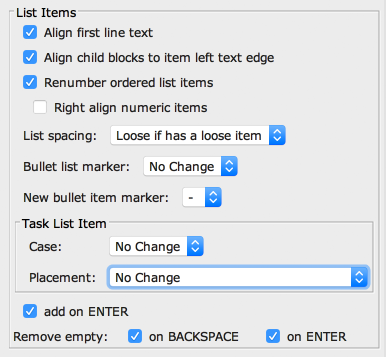
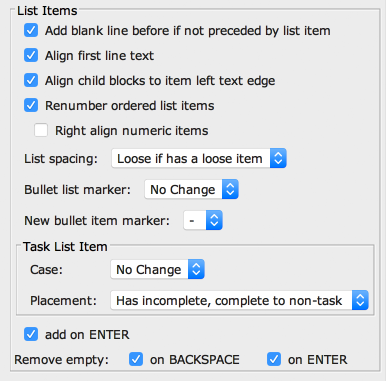
update screenshots and docs for add blank line before list code style option

Changed region(s): [[0.0, 0.0, 0.9948, 0.986], [0.3109, 0.9244, 0.6218, 0.9552], [0.6839, 0.9244, 0.9016, 0.9552]]

diff --git a/resources/META-INF/VERSION.md b/resources/META-INF/VERSION.md
@@ -3,7 +3,7 @@
 [TOC levels=3,6]: # "Version History"
 
 ### Version History
-- [2.2.0.20 - Compatibility & Enhancement Release](#22020---compatibility--enhancement-release)
+- [2.2.0.21 - Compatibility & Enhancement Release](#22021---compatibility--enhancement-release)
 - [2.2.0 - Compatibility & Enhancement Release](#220---compatibility--enhancement-release)
 - [2.1.1 - Bug Fix & Enhancement Release](#211---bug-fix--enhancement-release)
 - [2.1.0 - Bug Fix Release](#210---bug-fix-release)
@@ -56,8 +56,15 @@
 
 &nbsp;</details>
 
-### 2.2.0.20 - Compatibility & Enhancement Release
+### 2.2.0.21 - Compatibility & Enhancement Release
 
+* Add: Code Style option to insert a blank line before a list item if it is not preceded by
+  another list item, enabled by default and formatting a document will create maximum
+  compatibility with markdown processors that limit list item interpretation when not preceded
+  by a blank line.
+* Add: Annotation and quick fix if first list item needs to have a blank line before it to be
+  properly parsed as a list. List indentation type dependent and for CommonMark list item type
+  and numeric sequence dependent.
 * Fix: #349, Show version number on plugin configuration screen, moved version number. Now more
   prominently displayed at the top of the main panel next to update channel selection.
 * Fix: #348, IDE error when switching to Default JavaFX Stylesheet, added a validation for

diff --git a/README.md b/README.md
@@ -90,7 +90,7 @@ Release Road Map
 
 ### Version 2.3.0
 
-In addition to a long list of bug fixes you can find in [Version Notes], this release was a
+In addition to a long list of bug fixes you can find in [Version Notes], this release is a
 rework of parser, actions and formatting to handle different Markdown processors' idiosyncrasies
 when parsing lists and determining indentation of items:
 
